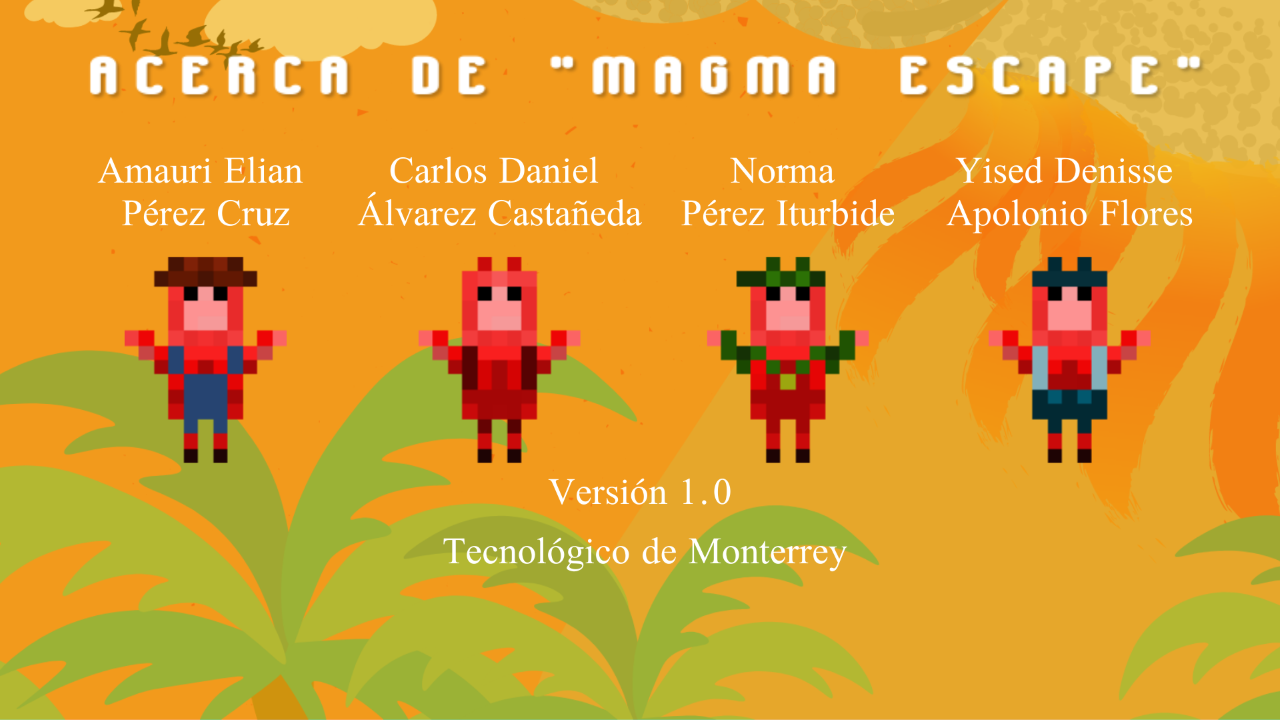
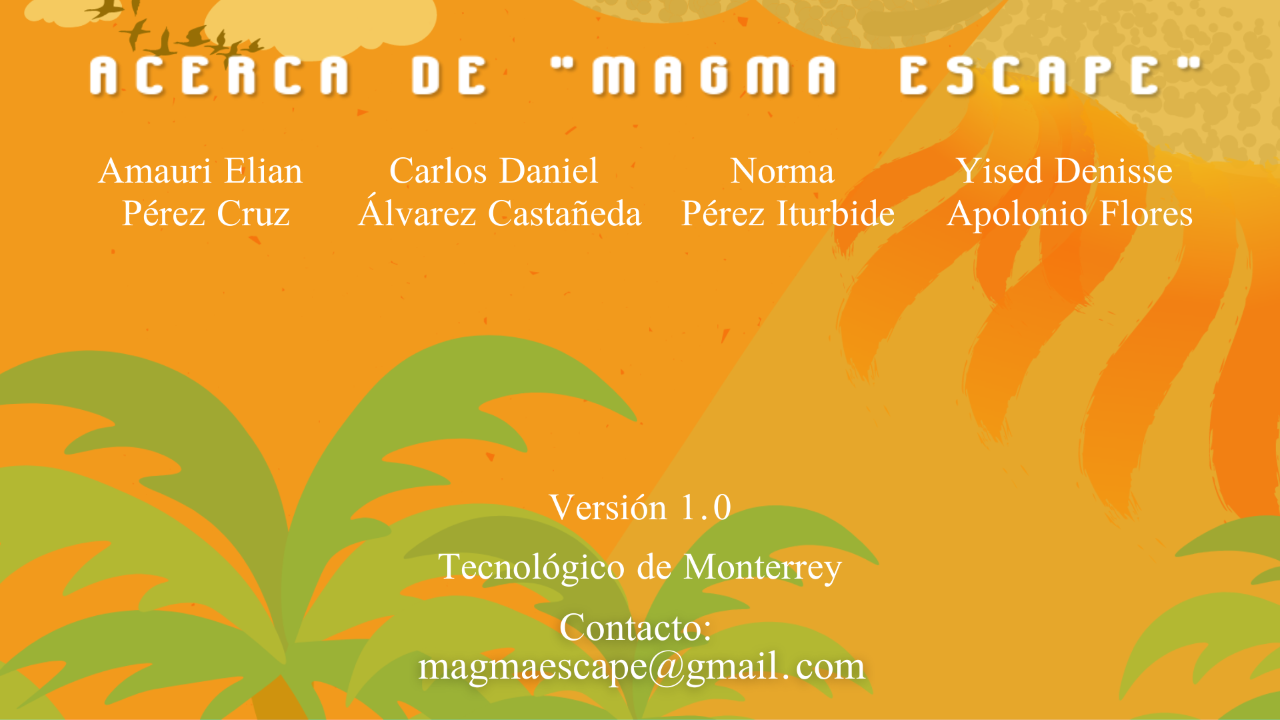
Cambio de pantalla Acerca de

diff --git a/core/src/com/dyan/magmaescape/PantallaAcerca.java b/core/src/com/dyan/magmaescape/PantallaAcerca.java
@@ -25,14 +25,28 @@ public class PantallaAcerca extends Pantalla
     //Escena
     private Stage escenaMenu;
 
+    private AsheAcerca asheAmauri, asheDaniel, asheNorma, asheDenisse;
+
     public PantallaAcerca(Juego juego) {
         this.juego = juego;
     }
 
     public void show() {
         crearAcercaDe();
+        crearAshesAcerca();
         //1: bloquear la tecla de back
         Gdx.input.setCatchKey(Input.Keys.BACK, true);
+    }
+
+    private void crearAshesAcerca() {
+        Texture texturaAmauri = new Texture("acercaDe/AsheAmauri.png");
+        asheAmauri = new AsheAcerca(texturaAmauri,ANCHO*0.085f,ALTO/3f,196,249);
+        Texture texturaDaniel = new Texture("acercaDe/AsheDaniel.png");
+        asheDaniel = new AsheAcerca(texturaDaniel,ANCHO*0.32f,ALTO/3f,194,246);
+        Texture texturaNorma = new Texture("acercaDe/AshesNorma.png");
+        asheNorma = new AsheAcerca(texturaNorma,ANCHO*0.53f,ALTO/3f,196,249);
+        Texture texturaDenisse = new Texture("acercaDe/AsheDenisse.png");
+        asheDenisse = new AsheAcerca(texturaDenisse,ANCHO*0.76f,ALTO/3f,195,247);
     }
 
     private void crearAcercaDe() {
@@ -83,6 +97,10 @@ public class PantallaAcerca extends Pantalla
         batch.setProjectionMatrix(camara.combined);
         batch.begin();
         batch.draw(texturaFondo,0,0);
+        asheAmauri.render(batch);
+        asheDaniel.render(batch);
+        asheNorma.render(batch);
+        asheDenisse.render(batch);
         batch.end();
 
         // Escena (DESPUES DEL FONDO)

diff --git a/core/src/com/dyan/magmaescape/AsheAcerca.java b/core/src/com/dyan/magmaescape/AsheAcerca.java
@@ -1,0 +1,42 @@
+package com.dyan.magmaescape;
+
+import com.badlogic.gdx.Gdx;
+import com.badlogic.gdx.graphics.Texture;
+import com.badlogic.gdx.graphics.g2d.Animation;
+import com.badlogic.gdx.graphics.g2d.Sprite;
+import com.badlogic.gdx.graphics.g2d.SpriteBatch;
+import com.badlogic.gdx.graphics.g2d.TextureRegion;
+
+/*
+Norma Perez
+Representa a los Ashes en la pantalla de acerca de
+ */
+public class AsheAcerca extends Objeto
+{
+    private Animation<TextureRegion> animacion;
+    private float timerAnimacion;
+
+
+    public AsheAcerca(Texture textura, float x, float y,int cw,int ch) {
+        TextureRegion region = new TextureRegion(textura);
+        TextureRegion[][] texturas = region.split(cw,ch);
+
+        //Crear la animacion
+        TextureRegion[] arrFrames = { texturas[0][0], texturas[0][1] };
+        animacion = new Animation<TextureRegion>(0.3f, arrFrames);
+        animacion.setPlayMode(Animation.PlayMode.LOOP);
+        timerAnimacion = 0;
+
+        sprite = new Sprite(texturas[0][0]);
+        sprite.setPosition(x, y);
+    }
+
+    @Override  //Sobreescribir el metodo
+    public void render(SpriteBatch batch) {
+        timerAnimacion += Gdx.graphics.getDeltaTime();
+        TextureRegion frame = animacion.getKeyFrame(timerAnimacion);
+        batch.draw(frame, sprite.getX(), sprite.getY());
+    }
+
+}
+
